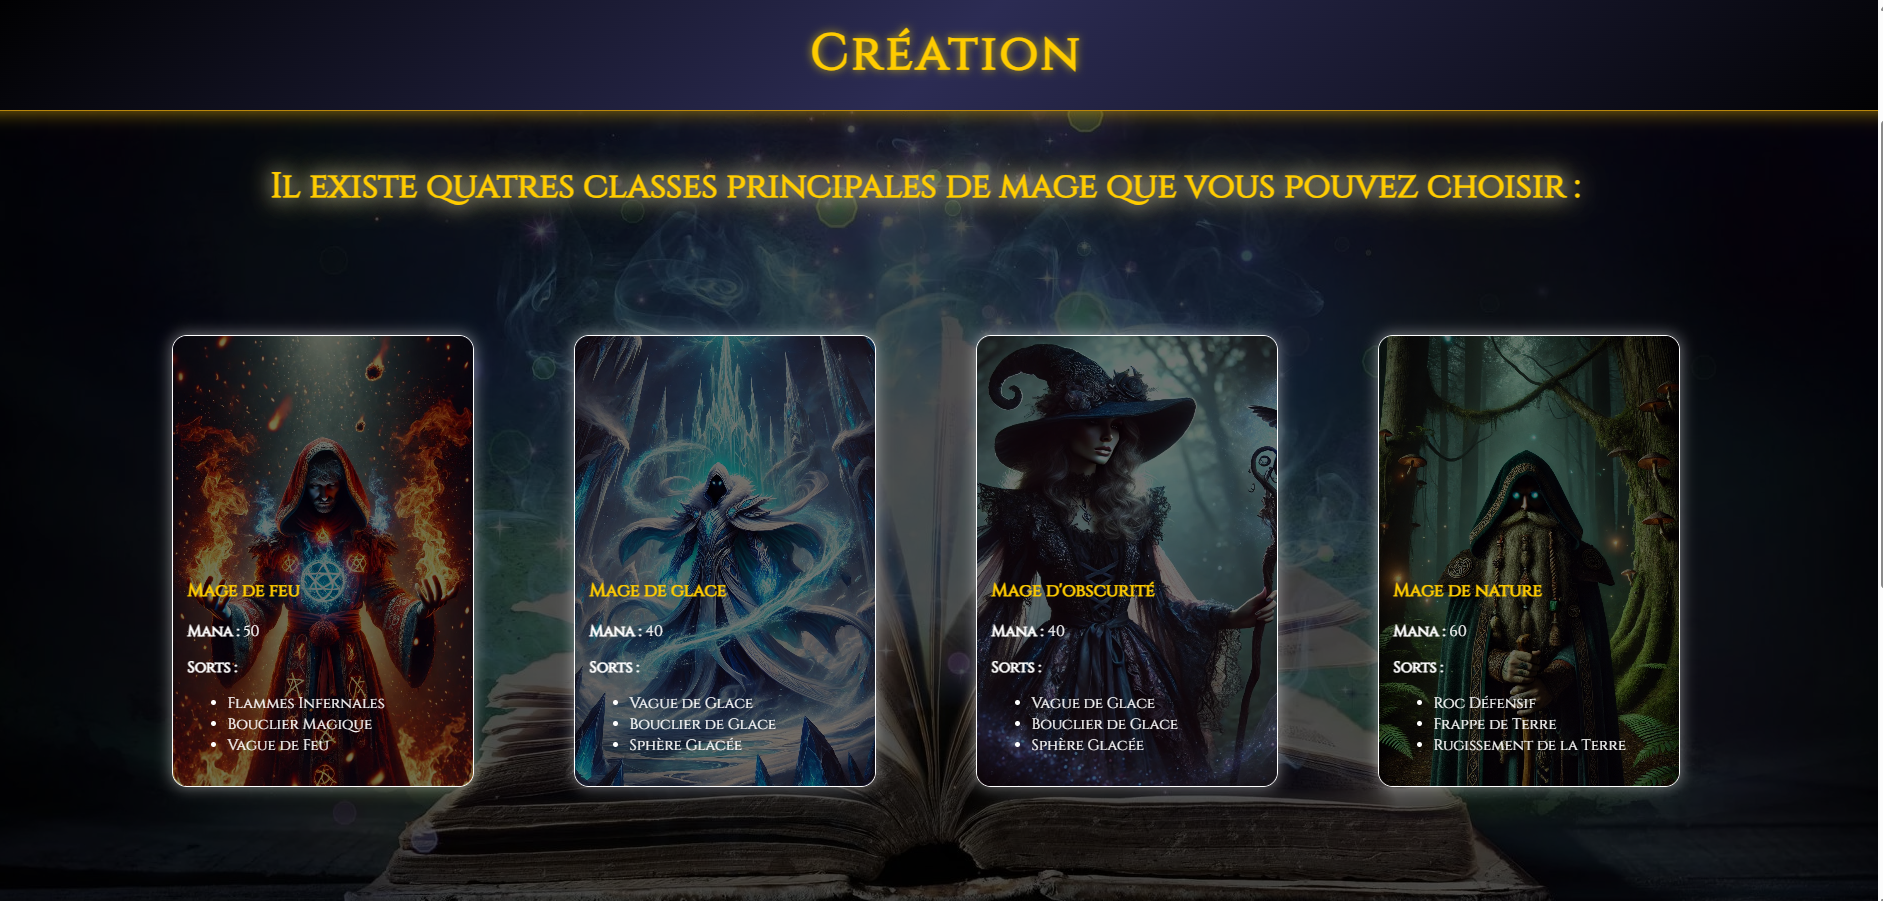
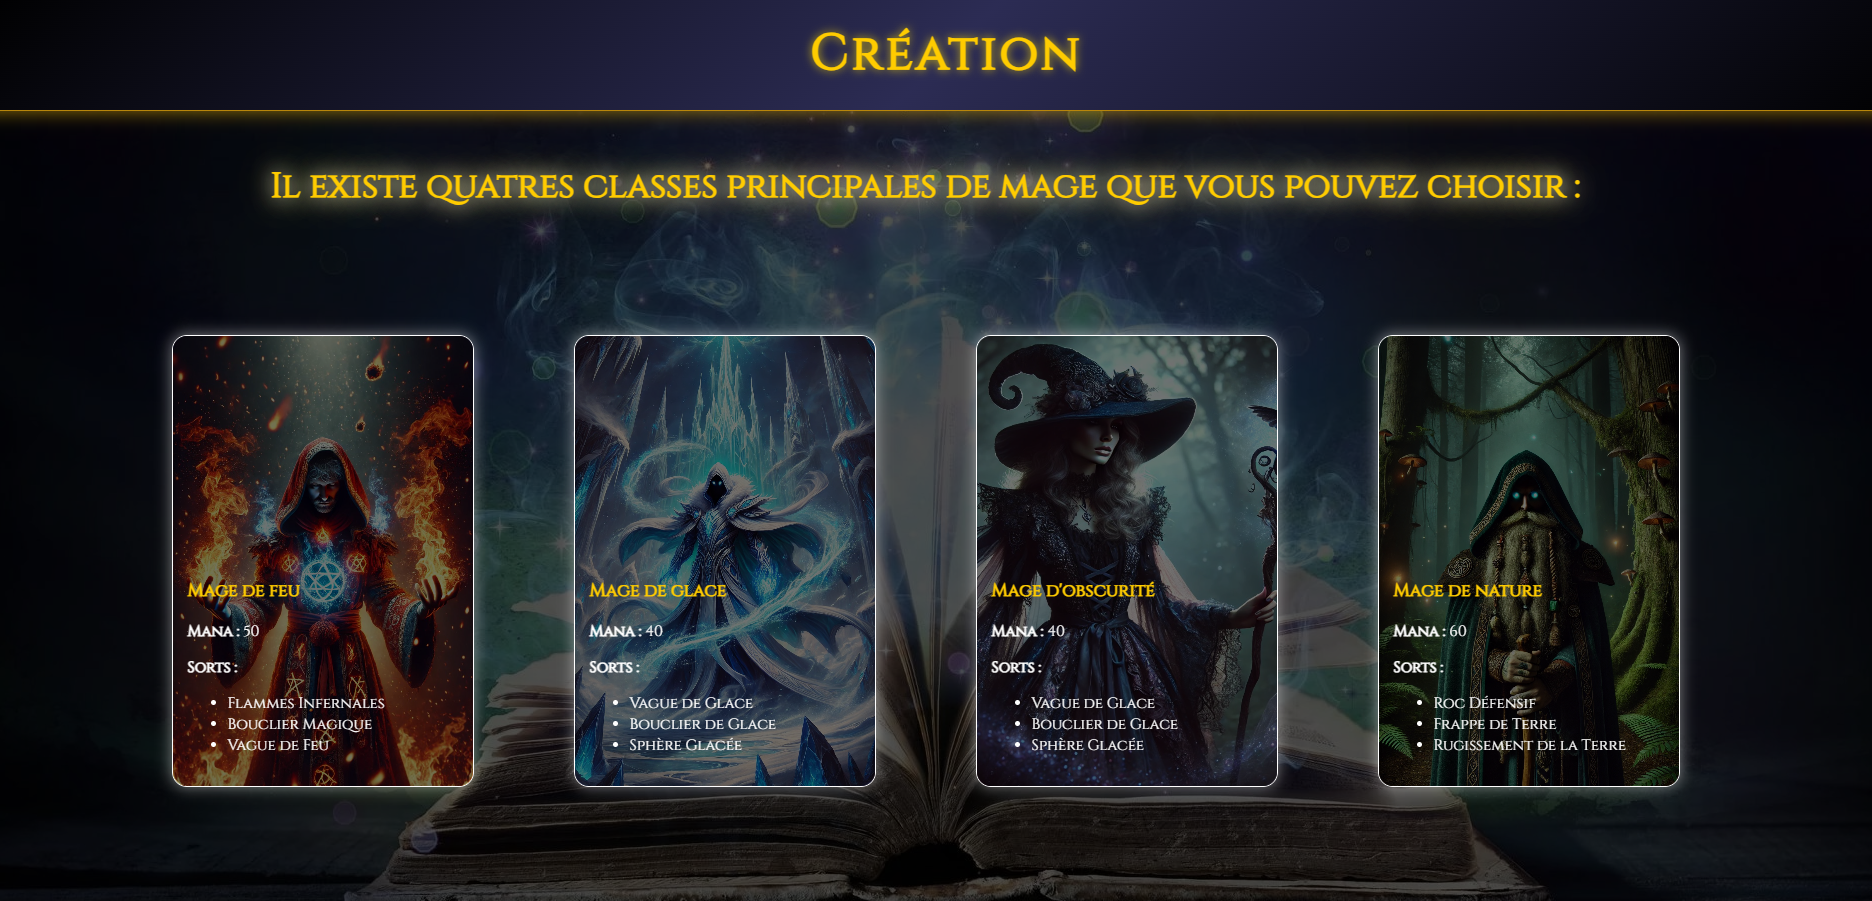
Fix bugs with the video and made the modal better for all resolution.

diff --git a/app/projects/page.tsx b/app/projects/page.tsx
@@ -334,11 +334,6 @@ const PROJECTS: Project[] = [
   },
 ];
 
-function isDesktop() {
-  if (typeof window === "undefined") return false;
-  return window.innerWidth >= 1024;
-}
-
 function isVideoSrc(src: string) {
   return /\.(mp4|webm|mov)$/i.test(src);
 }
@@ -349,12 +344,14 @@ function Modal({
   imageFit = "cover",
   imageScale = 1,
   onClose,
+  t,
 }: {
   images: string[];
   startIndex: number;
   imageFit?: "cover" | "contain";
   imageScale?: number;
   onClose: () => void;
+  t: Translations;
 }) {
   const [current, setCurrent] = useState(startIndex);
   const [modalVideoLoading, setModalVideoLoading] = useState(true);
@@ -391,20 +388,26 @@ function Modal({
       }
     };
 
-    const handleResize = () => {
-      if (window.innerWidth < 1024) onClose();
-    };
-
     window.addEventListener("keydown", handleKey);
-    window.addEventListener("resize", handleResize);
     document.body.style.overflow = "hidden";
 
     return () => {
       window.removeEventListener("keydown", handleKey);
-      window.removeEventListener("resize", handleResize);
       document.body.style.overflow = "";
     };
   }, []);
+
+  useEffect(() => {
+    return () => {
+      if (waitingTimeoutRef.current) clearTimeout(waitingTimeoutRef.current);
+    };
+  }, [current]);
+
+  useEffect(() => {
+    if (!isVideoSrc(images[current])) return;
+    const timeout = setTimeout(() => setModalVideoLoading(false), 6000);
+    return () => clearTimeout(timeout);
+  }, [current, images]);
 
   const handleClose = () => {
     if (modalVideoRef.current) {
@@ -412,6 +415,8 @@ function Modal({
     }
     onClose();
   };
+
+  const waitingTimeoutRef = useRef<NodeJS.Timeout | null>(null);
 
   const goPrev = () => {
     if (modalVideoRef.current) modalVideoRef.current.pause();
@@ -445,14 +450,25 @@ function Modal({
                   loop
                   playsInline
                   onCanPlay={() => i === current && setModalVideoLoading(false)}
-                  onWaiting={() => i === current && setModalVideoLoading(true)}
-                  onPlaying={() => i === current && setModalVideoLoading(false)}
-                  style={{ width: "100%", height: "100%" }}
+                  onWaiting={() => {
+                    if (i !== current) return;
+                    waitingTimeoutRef.current = setTimeout(
+                      () => setModalVideoLoading(true),
+                      300,
+                    );
+                  }}
+                  onPlaying={() => {
+                    if (i !== current) return;
+                    if (waitingTimeoutRef.current)
+                      clearTimeout(waitingTimeoutRef.current);
+                    setModalVideoLoading(false);
+                  }}
+                  className={styles.modalVideo}
                 />
                 {i === current && modalVideoLoading && (
                   <div className={styles.videoLoadingOverlay}>
                     <div className={styles.videoSpinner} />
-                    <span>Loading video…</span>
+                    <span>{t.projects.loadingVideo}</span>
                   </div>
                 )}
               </div>
@@ -523,16 +539,21 @@ function Carousel({
   imageScale = 1,
   imageOrigin = "center",
   onImageClick,
+  isModalOpen,
+  t,
 }: {
   images: string[];
   imageFit?: "cover" | "contain";
   imageScale?: number;
   imageOrigin?: "center" | "top-left" | "top" | "left";
   onImageClick: (index: number) => void;
+  isModalOpen: boolean;
+  t: Translations;
 }) {
   const [current, setCurrent] = useState(0);
   const [videoLoading, setVideoLoading] = useState(true);
   const videoRef = useRef<HTMLVideoElement>(null);
+  const waitingTimeoutRef = useRef<NodeJS.Timeout | null>(null);
 
   const advance = () => {
     setCurrent((i) => (i + 1) % images.length);
@@ -549,10 +570,39 @@ function Carousel({
   useEffect(() => {
     if (isVideoSrc(images[current]) && videoRef.current) {
       setVideoLoading(true);
+      videoRef.current.muted = true;
       videoRef.current.currentTime = 0;
-      videoRef.current.play().catch(() => {});
+      const playPromise = videoRef.current.play();
+      if (playPromise) {
+        playPromise.catch(() => {
+          setVideoLoading(false);
+          advance();
+        });
+      }
     }
   }, [current, images]);
+
+  useEffect(() => {
+    if (!isVideoSrc(images[current])) return;
+    const timeout = setTimeout(() => setVideoLoading(false), 6000);
+    return () => clearTimeout(timeout);
+  }, [current, images]);
+
+  useEffect(() => {
+    return () => {
+      if (waitingTimeoutRef.current) clearTimeout(waitingTimeoutRef.current);
+    };
+  }, [current]);
+
+  useEffect(() => {
+    if (!isVideoSrc(images[current]) || !videoRef.current) return;
+
+    if (isModalOpen) {
+      videoRef.current.pause();
+    } else {
+      videoRef.current.play().catch(() => {});
+    }
+  }, [isModalOpen, current, images]);
 
   return (
     <div className={styles.carousel}>
@@ -569,8 +619,19 @@ function Carousel({
               muted
               playsInline
               onCanPlay={() => i === current && setVideoLoading(false)}
-              onWaiting={() => i === current && setVideoLoading(true)}
-              onPlaying={() => i === current && setVideoLoading(false)}
+              onWaiting={() => {
+                if (i !== current) return;
+                waitingTimeoutRef.current = setTimeout(
+                  () => setVideoLoading(true),
+                  300,
+                );
+              }}
+              onPlaying={() => {
+                if (i !== current) return;
+                if (waitingTimeoutRef.current)
+                  clearTimeout(waitingTimeoutRef.current);
+                setVideoLoading(false);
+              }}
               onEnded={i === current ? advance : undefined}
               className={`${styles.carouselImg} ${i === current ? styles.carouselImgActive : ""}`}
               style={{
@@ -585,7 +646,7 @@ function Carousel({
             {i === current && videoLoading && (
               <div className={styles.videoLoadingOverlay}>
                 <div className={styles.videoSpinner} />
-                <span>Loading preview…</span>
+                <span>{t.projects.loadingPreview}</span>
               </div>
             )}
           </div>
@@ -641,9 +702,9 @@ function ProjectCard({ project, t }: { project: Project; t: Translations }) {
             imageFit={project.imageFit}
             imageScale={project.imageScale}
             imageOrigin={project.imageOrigin}
-            onImageClick={(i) => {
-              if (isDesktop()) setModalIndex(i);
-            }}
+            onImageClick={(i) => setModalIndex(i)}
+            isModalOpen={modalIndex !== null}
+            t={t}
           />
         ) : (
           <div className={styles.cardImgPlaceholder}>
@@ -761,6 +822,7 @@ function ProjectCard({ project, t }: { project: Project; t: Translations }) {
           imageFit={project.imageFit}
           imageScale={project.imageScale}
           onClose={() => setModalIndex(null)}
+          t={t}
         />
       )}
     </article>

diff --git a/app/projects/projects.module.css b/app/projects/projects.module.css
@@ -556,13 +556,14 @@
 .modal {
   position: fixed;
   inset: 0;
-  z-index: 1000;
+  z-index: 10000;
   background-color: transparent;
   display: flex;
   align-items: center;
   justify-content: center;
   animation: fadeIn 0.2s ease;
   backdrop-filter: blur(12px);
+  transition: padding-left 0.3s ease;
 }
 
 @keyframes fadeIn {
@@ -745,6 +746,13 @@
   display: none;
 }
 
+.modalVideo {
+  width: 100%;
+  height: 100%;
+  object-fit: contain;
+  display: block;
+}
+
 @media (max-width: 768px) {
   .modalInner {
     width: fit-content;
@@ -831,32 +839,39 @@
 
   .modalImgWrapper {
     max-width: 70vw;
-    max-height: 55vh;
+    max-height: 65vh;
   }
 
   .modalInner {
-    margin-top: 75px;
+    margin-top: 25px;
     width: fit-content;
     height: fit-content;
   }
-
-  .modalNavPrev {
-    left: -48px;
+  .modalNavRow {
+    display: none;
   }
 
-  .modalNavNext {
-    right: -48px;
-  }
-
-  .modalNav {
+  .modalNavDesktop {
+    display: flex;
+    position: absolute;
+    top: 50%;
+    transform: translateY(-50%);
     width: 36px;
     height: 36px;
     opacity: 0.85;
   }
 
+  .modalNavDesktop.modalNavPrev {
+    left: -44px;
+  }
+
+  .modalNavDesktop.modalNavNext {
+    right: -44px;
+  }
+
   .modalClose {
-    top: -48px;
-    right: 0px;
+    top: 0px;
+    right: -44px;
     width: 36px;
     height: 36px;
   }
@@ -874,7 +889,65 @@
   .modalDots {
     bottom: -24px;
   }
+  .modalVideo {
+    max-width: 70vw;
+    max-height: 65vh;
+    width: auto;
+    height: auto;
+  }
 }
+
+@media (min-width: 769px) and (max-width: 1366px) {
+  .modalInner {
+    max-width: 75vw;
+    max-height: 80vh;
+  }
+
+  .modalImgWrapper {
+    max-width: 75vw;
+    max-height: 70vh;
+  }
+
+  .modalImg {
+    max-width: 85vw;
+    max-height: 70vh;
+  }
+
+  .modalNavDesktop,
+  .modalClose {
+    display: flex;
+    align-items: center;
+    justify-content: center;
+    box-sizing: border-box;
+    padding: 0;
+    width: 40px;
+    height: 40px;
+  }
+
+  .modalNavDesktop {
+    position: absolute;
+    top: 50%;
+    transform: translateY(-50%);
+  }
+
+  .modalNavDesktop.modalNavPrev {
+    left: -52px;
+  }
+
+  .modalNavDesktop.modalNavNext {
+    right: -52px;
+  }
+
+  .modalNavRow {
+    display: none;
+  }
+
+  .modalClose {
+    top: 0px;
+    right: -52px;
+  }
+}
+
 .videoLoadingOverlay {
   position: absolute;
   inset: 0;

diff --git a/app/components/ClientLayout.tsx b/app/components/ClientLayout.tsx
@@ -86,7 +86,7 @@ export default function ClientLayout({
       <ParticleMesh />
 
       <aside
-        className={`sidebar ${collapsed ? "collapsed" : ""} ${introDone ? "revealed" : ""}`}
+        className={`sidebar ${collapsed ? "collapsed" : ""} ${introDone ? "revealed" : ""} `}
       >
         <div className="sidebar-header">
           <div className="sidebar-logo">My Portfolio</div>